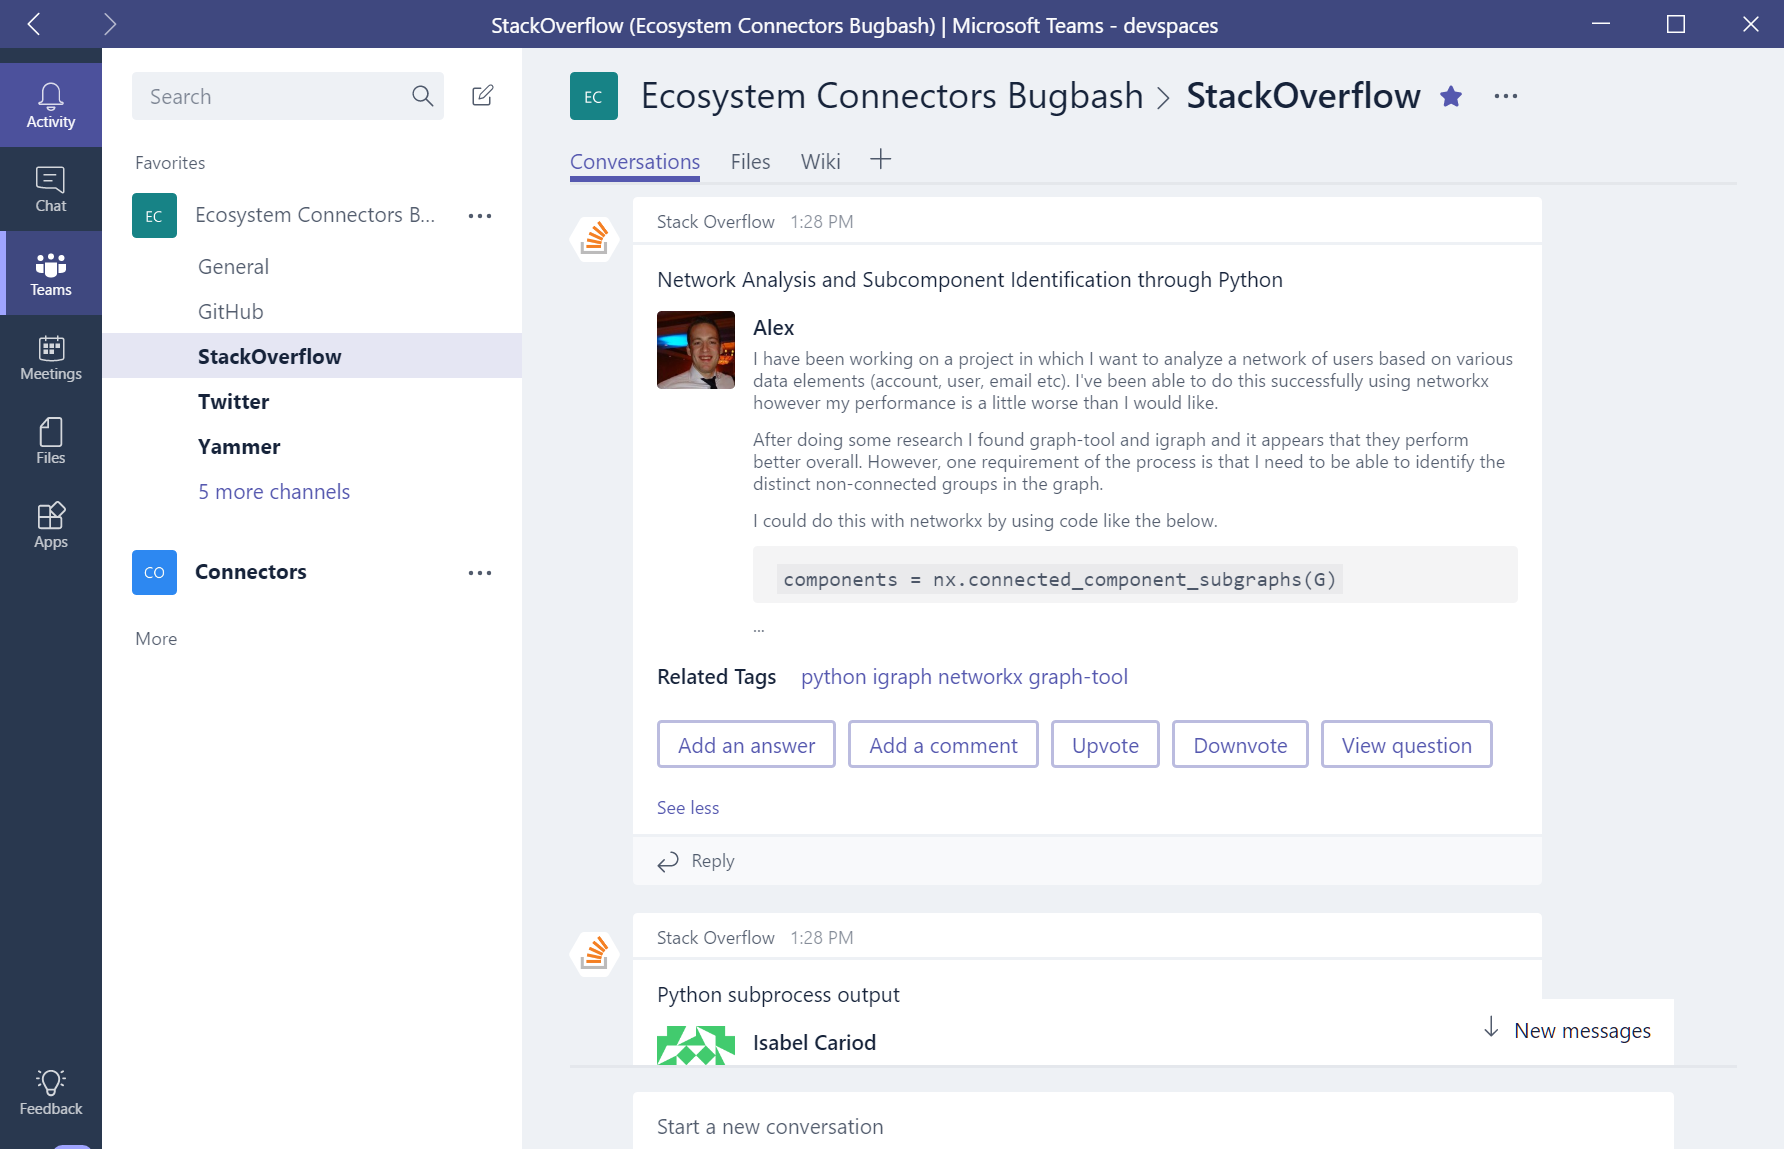
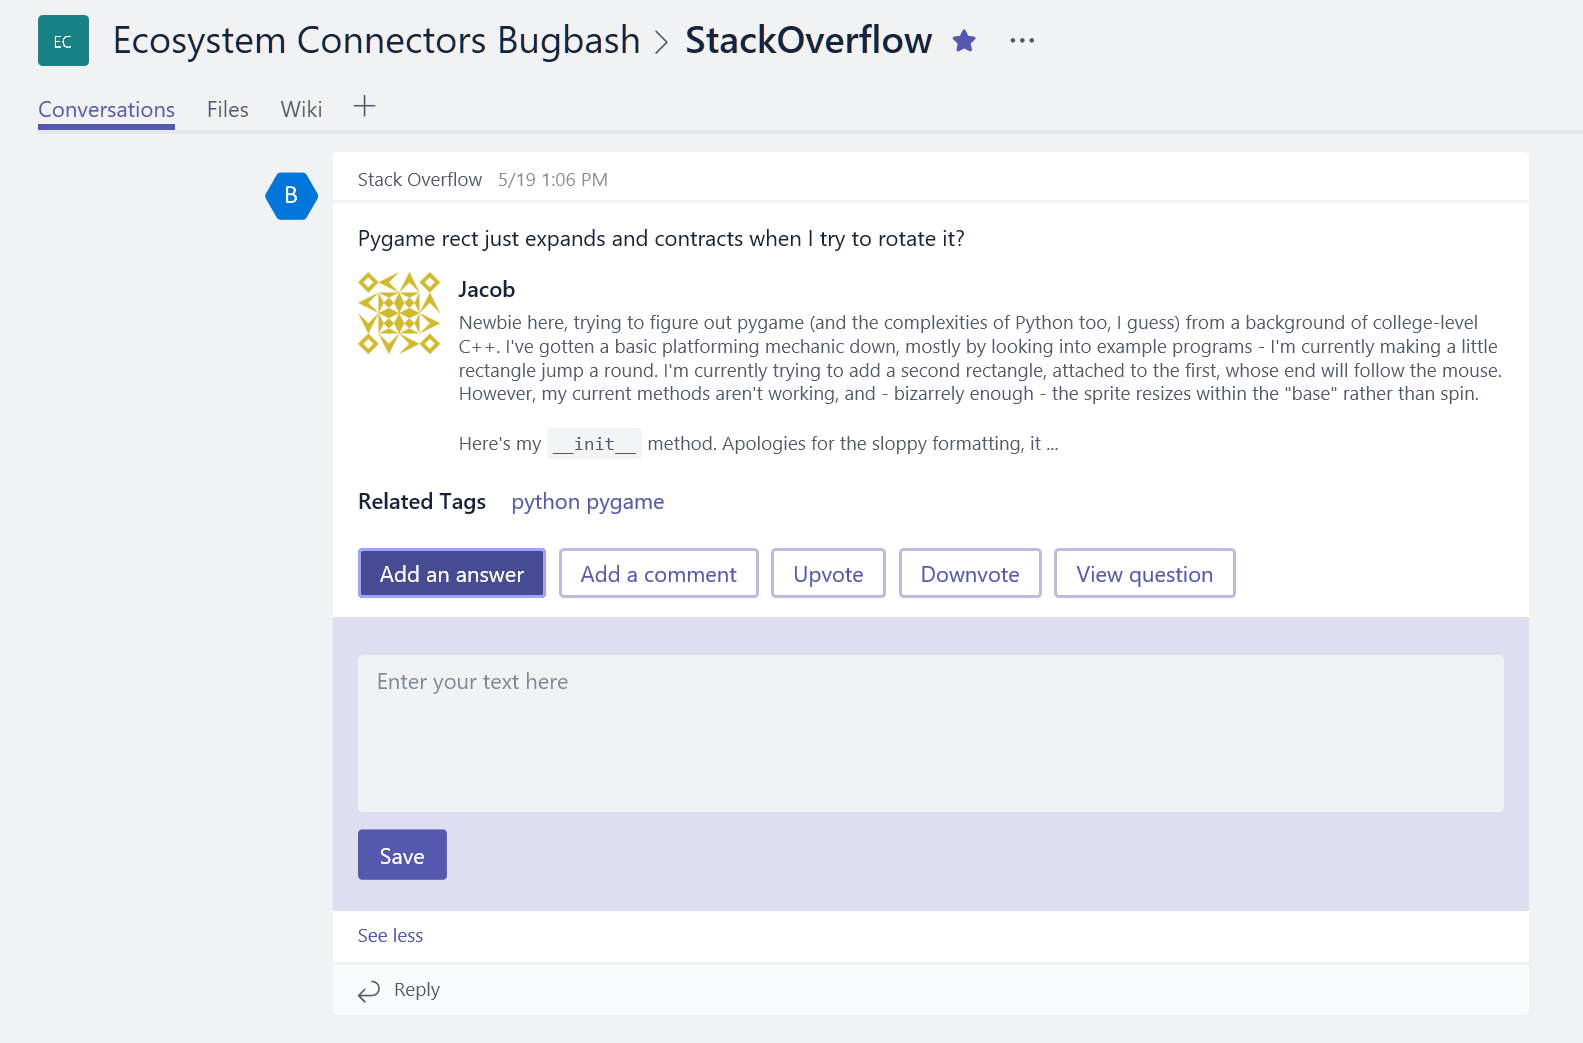
Updated Teams actionable message screenshot

diff --git a/docs/actionable-messages/index.md b/docs/actionable-messages/index.md
@@ -75,7 +75,7 @@ From Microsoft Teams, you can easily add and configure connectors for any channe
 
 ![A screenshot of the channel context menu in Microsoft Teams](images/teams-context-menu.PNG)
 
-The following is an example of an actionable message rendered in Microsoft Teams.
+The following is an example of an actionable message generated by the StackOverflow connector rendered in Microsoft Teams. Using the StackOverflow connector, you can subscribe to the tagged areas of interest and get notified in Outlook or Teams. Your team can stay on top of all the questions posted on StackOverflow and answer them inline in Teams (or Outlook)!
 
 ![A screenshot of an actionable message in Microsoft Teams](images/teams-actionable-message.PNG)
 
